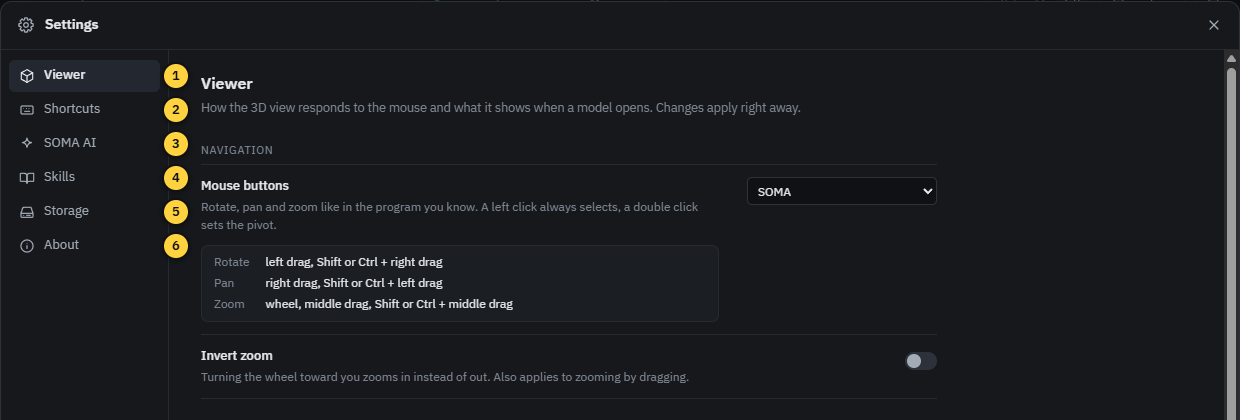
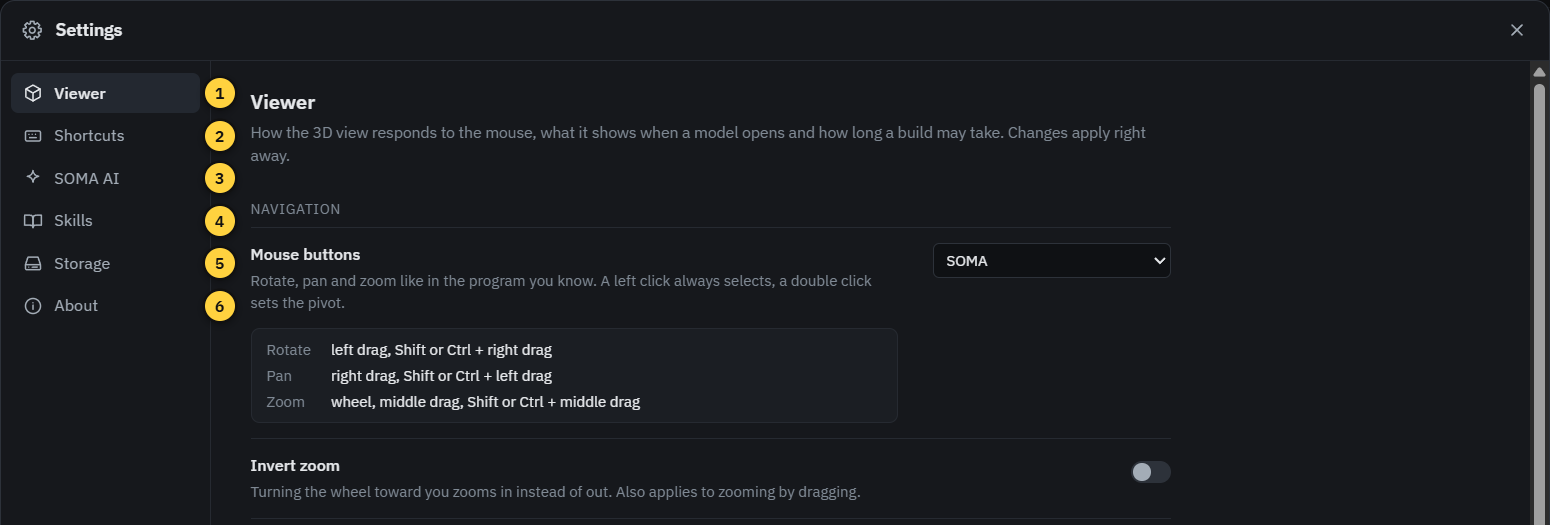
Docs: build time limit in the changelog and the guide

diff --git a/CHANGELOG.md b/CHANGELOG.md
@@ -12,6 +12,7 @@ the version is bumped.
 - Play or pause static FEM deformation in Analysis. Solved colors and values stay fixed during the shape cycle. On narrow canvases, compact controls flow into rows while the close button stays visible. Thanks to Ryan Hailey (fork RyanHailey21/SOMA, issue #12).
 - "As one STEP file" in the Export menu: the whole model in a single STEP file with its groups as sub-assemblies, part names and colors, for other CAD programs. Purchased parts such as screws are included, reference parts too, in a group "Reference". On the command line: `soma export --assembly --format step` (issue #11).
 - Video tutorial on YouTube (9 min, from installing to export): "Watch video" on the start page card and at the top of Help opens it in your browser.
+- Settings > Viewer > Build time limit: how long a build may take before SOMA stops it, from 5 minutes to 2 hours or no limit. The default stays 10 minutes. The message of a stopped build says where to raise it (issue #13).
 - A loading screen while a new model is created ("New model", the tutorial, a CadQuery script): it shows at once, names the step (first build, version history, opening) and stays until the viewer, the files and the agent panel have loaded the model. Before, the old model stayed on screen for several seconds without a sign that anything happened. The tutorial's tour starts once the model is loaded.
 
 ### Fixed

diff --git a/app/resources/skills/soma-app.md b/app/resources/skills/soma-app.md
@@ -303,7 +303,7 @@ The folder itself is the model: there is no .soma file to save, and your files s
 
 ![Settings](../help/settings.png)
 
-1. **Viewer**: mouse buttons like in your CAD program, zoom direction, perspective or orthographic, display when a model opens, decimal places of measurements.
+1. **Viewer**: mouse buttons like in your CAD program, zoom direction, perspective or orthographic, display when a model opens, decimal places of measurements, and the build time limit (10 minutes unless you change it, or no limit).
 2. **Shortcuts**: all keys and mouse actions.
 3. **SOMA AI**: sign in and out, the model SOMA AI thinks with (with a search), what the conversation of the open model used, what SOMA AI may do, and the note about its risks again.
 4. **Skills**: edit the built-in skills or write your own. They are available in every model.
